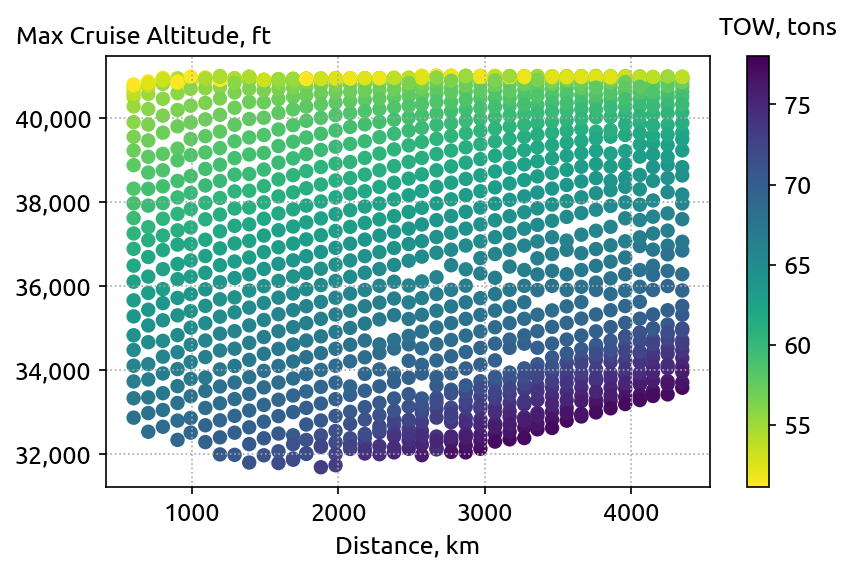
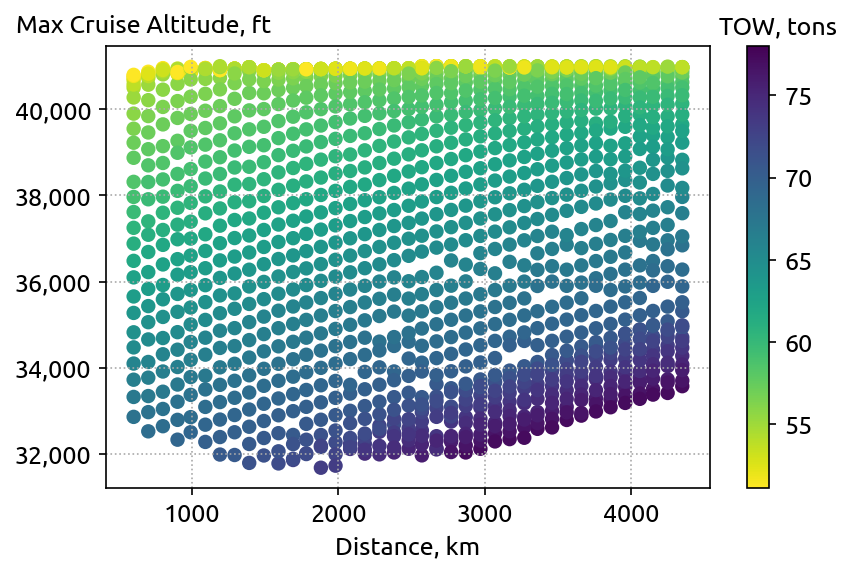
three feature plots

diff --git a/paper_plots.py b/paper_plots.py
@@ -7,9 +7,12 @@ import pandas as pd
 import seaborn as sns
 from matplotlib.cm import ScalarMappable
 from matplotlib.colors import Normalize
+import matplotlib.gridspec as gridspec
 from openap import top
 from sklearn.linear_model import LinearRegression
 from sklearn.model_selection import train_test_split
+from sklearn.preprocessing import StandardScaler
+from sklearn.ensemble import HistGradientBoostingRegressor
 
 matplotlib.rc("font", size=12)
 matplotlib.rc("font", family="Ubuntu")
@@ -208,22 +211,8 @@ df_isa = pd.read_csv("data/optimal/a320_isa_df.csv").query("distance>500")
     df_isa.takeoff_mass / 1000,
 ]
 norm = Normalize(
-    vmin=min(
-        c_opt.min(),
-        c_opt_max.min(),
-        c_real.min(),
-        c_pred.min(),
-        c_osky.min(),
-        c_isa_max.min(),
-    ),
-    vmax=max(
-        c_opt.max(),
-        c_opt_max.max(),
-        c_real.max(),
-        c_pred.max(),
-        c_osky.max(),
-        c_isa_max.max(),
-    ),
+    vmin=oew * 1.2 / 1000,
+    vmax=m_mtow / 1000,
 )
 
 # %%
@@ -491,7 +480,6 @@ ax.set_ylabel("Max Cruise Altitude, ft", rotation=0, ha="left")
 ax.get_yaxis().set_major_formatter(
     matplotlib.ticker.FuncFormatter(lambda x, p: format(int(x), ","))
 )
-# ax.set_ylim(33000, 42000)
 ax.grid(True)
 ax.yaxis.set_label_coords(-0.15, 1.02)
 plt.tight_layout()
@@ -509,7 +497,7 @@ sm = ScalarMappable(norm=norm, cmap=cmap)
 ax.scatter(x_opt_max, y_opt_max, c=sm.to_rgba(c_opt_max), s=35)
 
 cbar = plt.colorbar(sm, ax=ax)
-ax.text(4600, 42000, "TOW, tons")
+ax.text(4600, 41750, "TOW, tons")
 
 ax.set_xlabel("Distance, km")
 ax.set_ylabel("Max Cruise Altitude, ft", rotation=0, ha="left")
@@ -523,40 +511,250 @@ plt.tight_layout()
 plt.savefig("figures/lookup_max_cruise.png", bbox_inches="tight", dpi=150)
 plt.show()
 
+
 # %%
-X = dataset_opt[["mean_cruise_altitude", "distance", "mean_cruise_tas"]].copy().values
-y = dataset_opt.iloc[:, 4].values
+def calculate_error_stats(df, error_cols, mape_cols):
 
-X_real = (
-    dataset_real[["mean_cruise_altitude", "distance", "mean_cruise_tas"]].copy().values
+    stats = []
+    for err_col, mape_col in zip(error_cols, mape_cols):
+        mae = df[err_col].abs().mean()
+        me = df[err_col].mean()
+        mape = df[mape_col].mean()
+        std = df[err_col].std()
+        stats.append(
+            (
+                f"""\
+                MAE:  {mae:.2f}
+                MAPE: {mape:.2f}%
+                ME:   {me:.2f}
+                STD:  {std:.2f}\
+                """
+            )
+        )
+    return stats
+
+
+def plot_histograms(df, error_columns, mape_columns, titles, file_name):
+    """Plot histograms with error statistics."""
+    fig = plt.figure(figsize=(11, 11))
+    gs = gridspec.GridSpec(38, 85)
+    axes = []
+
+    for i in range(int(len(error_columns) / 2)):
+        ax_mult = fig.add_subplot(gs[14 * i : 14 * (i + 1) - 5, 0:40])
+        ax_boost = fig.add_subplot(gs[14 * i : 14 * (i + 1) - 5, 45:85])
+        axes.extend([ax_mult, ax_boost])
+
+    for ax, col, title in zip(axes, error_columns, titles):
+
+        Q1 = np.percentile(df[col], 25)
+        Q3 = np.percentile(df[col], 75)
+        counts, edges, patches = ax.hist(
+            df[col], bins=40, edgecolor="gray", color="tab:blue"
+        )
+        for i, patch in enumerate(patches):
+            if edges[i] >= Q1 and edges[i + 1] <= Q3:
+                if "mult" in col:
+                    c = "sandybrown"
+                else:
+                    c = "lightskyblue"
+                patch.set_facecolor(c)
+                patch.set_edgecolor(c)
+            else:
+                patch.set_facecolor("gray")
+                patch.set_edgecolor("gray")
+        ax.axvline(0, color=".3", dashes=(2, 2), alpha=0.6)
+        ax.axvline(df[col].median(), color="k", linewidth=1)
+        ax.set_title(title)
+        ax.set_ylabel("Flights", rotation=0, ha="left")
+        ax.yaxis.set_label_coords(-0.095, 1.02)
+        ax.set_xlabel("Estimation error, kg")
+        ax.spines["right"].set_visible(False)
+        ax.spines["top"].set_visible(False)
+
+    stats = calculate_error_stats(df, error_columns, mape_columns)
+    for ax, stat in zip(axes, stats):
+        ax.text(
+            0.15,
+            0.95,
+            stat,
+            transform=ax.transAxes,
+            fontsize=11,
+            fontfamily="monospace",
+            verticalalignment="top",
+        )
+
+    plt.savefig(file_name, bbox_inches="tight", pad_inches=0.1, dpi=150)
+    plt.show()
+
+
+def plot_boxplots(df, error_columns, file_name):
+    df_melted = df.melt(
+        value_vars=error_columns,
+        var_name="Model",
+        value_name="Estimation Error",
+    )
+
+    df_melted["Model Type"] = df_melted["Model"].apply(
+        lambda x: "Multilinear" if "mult" in x else "Boosting"
+    )
+    df_melted["Feature Set"] = df_melted["Model"].apply(
+        lambda x: ("3D" if "_atd" in x else "2D")
+    )
+
+    plt.figure(figsize=(6, 4))
+    ax = sns.boxplot(
+        x="Feature Set",
+        y="Estimation Error",
+        hue="Model Type",
+        palette=["sandybrown", "lightskyblue"],
+        data=df_melted,
+        gap=0.05,
+    )
+    handles, _ = ax.get_legend_handles_labels()
+    ax.legend(handles, ["Multilinear", "Boosting"])
+    ax.axhline(0, color=".3", dashes=(2, 2), alpha=0.6)
+    ax.set_ylabel("Error, tons", rotation=0, ha="left")
+    ax.yaxis.set_label_coords(-0.095, 1.04)
+    ax.get_yaxis().set_major_formatter(
+        matplotlib.ticker.FuncFormatter(lambda x, p: format(int(x / 1000), ","))
+    )
+    ax.set(xlabel=None)
+    sns.despine(offset=10, trim=True)
+    plt.savefig(file_name, bbox_inches="tight", pad_inches=0.1, dpi=150)
+
+    plt.show()
+
+
+# %%
+y = dataset_opt[["takeoff_mass"]].values
+X_ad_real = dataset_real[["mean_cruise_altitude", "distance"]].values
+X_ad = dataset_opt[["mean_cruise_altitude", "distance"]].values
+X_atd_real = dataset_real[
+    ["mean_cruise_altitude", "mean_cruise_tas", "distance"]
+].values
+X_atd = dataset_opt[["mean_cruise_altitude", "mean_cruise_tas", "distance"]].values
+df = dataset_real[
+    [
+        "fid",
+        "mean_cruise_altitude",
+        "distance",
+        "takeoff_mass",
+        "mean_cruise_tas",
+    ]
+]
+
+# Feature scaling
+sc_ad = StandardScaler()
+X_ad = sc_ad.fit_transform(X_ad)
+X_ad_real = sc_ad.transform(X_ad_real)
+sc_atd = StandardScaler()
+X_atd = sc_atd.fit_transform(X_atd)
+X_atd_real = sc_atd.transform(X_atd_real)
+# Set up models and predictions
+reg_ad = LinearRegression().fit(X_ad, y)
+est_ad = HistGradientBoostingRegressor().fit(X_ad, y)
+reg_atd = LinearRegression().fit(X_atd, y)
+est_atd = HistGradientBoostingRegressor().fit(X_atd, y)
+
+mult_pred_ad = reg_ad.predict(X_ad_real)
+boost_pred_ad = est_ad.predict(X_ad_real)
+mult_pred_atd = reg_atd.predict(X_atd_real)
+boost_pred_atd = est_atd.predict(X_atd_real)
+
+# Add predictions and errors to dataframe
+df = (
+    df.assign(
+        boost_pred_ad=boost_pred_ad,
+        mult_pred_ad=mult_pred_ad,
+        boost_pred_atd=boost_pred_atd,
+        mult_pred_atd=mult_pred_atd,
+    )
+    .assign(
+        boost_error_ad=lambda x: x.boost_pred_ad - x.takeoff_mass,
+        mult_error_ad=lambda x: x.mult_pred_ad - x.takeoff_mass,
+        boost_error_atd=lambda x: x.boost_pred_atd - x.takeoff_mass,
+        mult_error_atd=lambda x: x.mult_pred_atd - x.takeoff_mass,
+    )
+    .assign(
+        boost_mape_ad=lambda x: abs(x.boost_error_ad / x.takeoff_mass) * 100,
+        mult_mape_ad=lambda x: abs(x.mult_error_ad / x.takeoff_mass) * 100,
+        boost_mape_atd=lambda x: abs(x.boost_error_atd / x.takeoff_mass) * 100,
+        mult_mape_atd=lambda x: abs(x.mult_error_atd / x.takeoff_mass) * 100,
+    )
 )
-y_real = dataset_real.iloc[:, 4].values
-X_train, X_test, y_train, y_test = train_test_split(
-    X, y, test_size=0.2, random_state=33
+
+error_columns = [
+    "mult_error_ad",
+    "boost_error_ad",
+    "mult_error_atd",
+    "boost_error_atd",
+]
+
+titles = [
+    "Multilinear - 2D",
+    "Boosting - 2D",
+    "Multilinear - 3D",
+    "Boosting - 3D",
+]
+
+mape_columns = [
+    "mult_mape_ad",
+    "boost_mape_ad",
+    "mult_mape_atd",
+    "boost_mape_atd",
+]
+
+plot_histograms(
+    df, error_columns, mape_columns, titles, "figures/compare_models_err_hist.png"
 )
+
+plot_boxplots(df, error_columns, "figures/compare_models_boxplot.png")
+
+# %%
+for err_col, mape_col, title in zip(error_columns, mape_columns, titles):
+    stats_tab = []
+    for i in list(range(39, 31, -1)):
+        alt = i * 1000
+        alt_min = alt - 500
+        alt_max = alt + 500
+
+        if i == 39:
+            alt_max = 50_000
+        elif i == 32:
+            alt_min = 0
+
+        me = df.query("@alt_max > mean_cruise_altitude > @alt_min")[err_col].mean()
+        mae = (
+            df.query("@alt_max > mean_cruise_altitude > @alt_min")[err_col].abs().mean()
+        )
+        mape = df.query("@alt_max > mean_cruise_altitude > @alt_min")[mape_col].mean()
+        num_fli = len(df.query("@alt_max > mean_cruise_altitude > @alt_min"))
+        stats_tab.append(
+            {
+                "# of flights": num_fli,
+                "alt, ft": alt,
+                "me, kg": me.astype(int),
+                "mae, kg": mae.astype(int),
+                "mape %": mape,
+            }
+        )
+        df_stats = pd.DataFrame.from_dict(stats_tab)
+    print(title)
+    print(df_stats)
+
+# %%
+X = dataset_opt[["mean_cruise_altitude", "distance", "mean_cruise_tas"]].values
+y = dataset_opt[["takeoff_mass"]].values
+
+X_real = dataset_real[["mean_cruise_altitude", "distance", "mean_cruise_tas"]].values
+y_real = dataset_real[["takeoff_mass"]].values
 df_three_feat = dataset_real
-from sklearn.linear_model import LinearRegression
-
-regressor = LinearRegression()
-regressor.fit(X_train, y_train)
-
-y_pred = regressor.predict(X_test)
-np.set_printoptions(precision=2)
-
-diff = np.concatenate(
-    (y_pred.reshape(len(y_pred), 1), y_test.reshape(len(y_test), 1)), 1
-)
-df_testing = pd.DataFrame(diff, columns=["pred", "test"])
-df_testing = df_testing.assign(error=lambda x: x.pred - x.test)
-
-single = regressor.predict(X_real)
-df_three_feat = df_three_feat.assign(pred=single)
+regressor = LinearRegression().fit(X, y)
+pred = regressor.predict(X_real)
+df_three_feat = df_three_feat.assign(pred=pred)
 df_three_feat = df_three_feat.assign(error=lambda x: x.pred - x.takeoff_mass)
-
-df_testing = df_testing.assign(error_percent=lambda x: abs(x.error / x.test) * 100)
-df_three_feat = df_three_feat.assign(
-    error_percent=lambda x: abs(x.error / x.takeoff_mass) * 100
-)
+df_three_feat = df_three_feat.assign(mape=lambda x: abs(x.error / x.takeoff_mass) * 100)
 
 ###############
 plt.figure(figsize=(6, 4))
@@ -564,7 +762,7 @@ ax = plt.gca()
 ax.hist(df_three_feat.error, bins=40, edgecolor="gray")
 
 me = df_three_feat.error.mean()
-mape = df_three_feat.error_percent.mean()
+mape = df_three_feat.mape.mean()
 mae = df_three_feat.error.abs().mean()
 median = df_three_feat.error.median()
 std = df_three_feat.error.std()
@@ -593,41 +791,6 @@ ax.text(
 )
 plt.savefig("figures/three_feat_estimation_err_hist.png", bbox_inches="tight", dpi=150)
 plt.show()
-
-# %% three feat table
-tabl2 = []
-for i in list(range(39, 31, -1)):
-    alt = i * 1000
-    alt_min = alt - 500
-    alt_max = alt + 500
-
-    if i == 39:
-        alt_max = 50_000
-    elif i == 32:
-        alt_min = 0
-
-    me = df_three_feat.query("@alt_max > mean_cruise_altitude > @alt_min").error.mean()
-    mae = (
-        df_three_feat.query("@alt_max > mean_cruise_altitude > @alt_min")
-        .error.abs()
-        .mean()
-    )
-    mape = df_three_feat.query(
-        "@alt_max > mean_cruise_altitude > @alt_min"
-    ).error_percent.mean()
-    num_fli = len(df_three_feat.query("@alt_max > mean_cruise_altitude > @alt_min"))
-    tabl2.append(
-        {
-            "# of flights": num_fli,
-            "alt, ft": alt,
-            "me, kg": me.astype(int),
-            "mae, kg": mae.astype(int),
-            "mape %": mape,
-        }
-    )
-    tabl2_df = pd.DataFrame.from_dict(tabl2)
-
-tabl2_df
 
 # %%
 import xarray as xr
